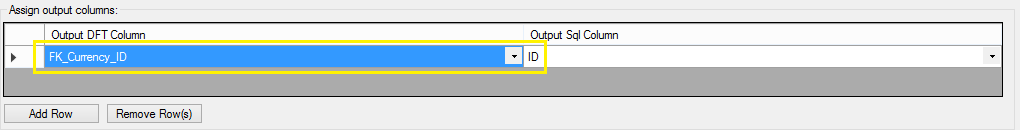
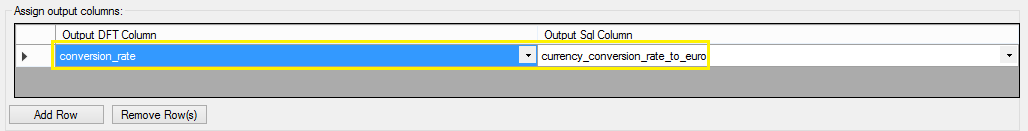
Example edited

Changed region(s): [[0.0, 0.1538, 1.0, 0.7692], [0.0, 0.8, 0.2127, 0.9538], [0.0, 0.0308, 0.1216, 0.1231]]

diff --git a/README.md b/README.md
@@ -1,13 +1,11 @@
 ## initions SSIS Component "Lookup 2"
 "Lookup 2" is a custom component for [SQL Server Integration Services](https://en.wikipedia.org/wiki/SQL_Server_Integration_Services). It can be added to the Data Flow of an SSIS-package to look up values in data ranges. 
 
-The standard lookup transformation in SSIS lets you join data from a related table (lookup-table) based on **equal** values in common columns (for each value in your input is an exact matching value in the lookup-table).  
+The standard lookup transformation in SSIS lets you join data from a related table (lookup-table) based on **equal** values in common columns. For each value in your input is an exact matching value in the lookup-table.  
 In some cases the values in the lookup-table are divided into consecutive ranges and only the beginning and ending values of each range is stored. To join this data you can not look for equal values but for the appropriate *data range*.    
 The "Lookup 2" SSIS-Component enables you to do this in an easy way. 
 
-For example: You want to know the currency conversion rate for Euro to US-Dollar on a specific date. The conversion rate changes over time, so it is valid between two dates (*valid-from* and *valid-to*). These dates are saved in a lookup-table.  
-Let's say the currency conversion rate for Euro to Dollar was 1:1.2 between 2015-02-01 and 2015-02-15 and you made a purchase in US-Dollar on 2015-02-10.  
-To get the rate for this date from the lookup-table you need to search for the currency (US-Dollar) and where the purchase-date is between *valid-from* and *valid-to*.
+---
 
 ### Requirements for development
 * Microsoft VisualStudio 2010 or greater
@@ -15,29 +13,57 @@ To get the rate for this date from the lookup-table you need to search for the c
 ### Requirements for usage
 * Microsoft SSIS 2008R2 / 2012 / 2014
 
+---
+
+###Example: 
+
+You want to know the currency conversion rate for US-Dollar to Euro on a specific date. The conversion rate changes over time, so it is valid between two dates (*valid-from* and *valid-to*). These dates are saved in a lookup-table.  
+Let's say the currency conversion rate for Dollar to Euro was 1:1.2 between 2015-02-01 and 2015-02-15 and you made a purchase in US-Dollar on 2015-02-10.  
+To get the rate for this date from the lookup-table you need to search for the currency (US-Dollar, country=1) and where the purchase-date is between *valid-from* and *valid-to*.
+
+*Input-table:*
+
+|purchase_date|country|value|
+|---|---|---|
+|2015-02-10|1|7.99|
+  
+
+*Lookup-table dbo.currency:*
+
+|currency_conversion_rate_to_euro|FK_Country_ID|VALID_FROM|VALID_TO|
+|---|---|---|---|
+|1.3|1|2015-01-19|2015-01-31|
+|1.2|1|2015-02-01|2015-02-15|
+|1.17|1|2015-02-16|2015-02-27|
+
+---
+
 ### How to use
 1. open SSIS Package
 2. create DFT and open it 
-3. ![SSIS Control Flow](/resources/Control_Flow_LU2.PNG "SSIS Control Flow with Data Flow")
+3. ![SSIS Control Flow](./resources/Control_Flow_LU2.PNG "SSIS Control Flow with Data Flow")
 4. insert a src-component that gets your data you want to look up (i.e. purchase data)
-5. create new column in your Data Flow to hold lookup2-return-value (i.e. FK_Currency_ID)
-6. ![New Column](/resources/New_Column.PNG "Create new column for lookup2-return-value")
+5. create new column in your Data Flow to hold lookup2-return-value (i.e. conversion_rate)
+6. ![New Column](./resources/New_Column.PNG "Create new column for lookup2-return-value")
 7. find Lookup2 component in SSIS Toolbox, add it to Data Flow and connect its input to output of previous component
-8. ![SSIS Toolbox](/resources/SSIS_Toolbox_LU2.PNG "SSIS Toolbox with Lookup2 component")
+8. ![SSIS Toolbox](./resources/SSIS_Toolbox_LU2.PNG "SSIS Toolbox with Lookup2 component")
 9. add a data-destination-component
-10. ![SSIS Data Flow](/resources/Control_Flow_LU2_complete.PNG "SSIS Data Flow")
+10. ![SSIS Data Flow](./resources/Control_Flow_LU2_complete.PNG "SSIS Data Flow")
 11. open and configure "Lookup2" component:
-    * ![Lookup2](/resources/LU2_01.PNG "Edit Lookup2 component")
+    * ![Lookup2](./resources/LU2_01.PNG "Edit Lookup2 component")
     * choose a connection manager to access lookup-table
-    * ![Connection Manager](/resources/LU2_02_Connection.png "Choose connection manager")
+    * ![Connection Manager](./resources/LU2_02_Connection.png "Choose connection manager")
     * choose lookup-table (i.e. dbo.currency)
     * from your input (DFT Value) select column whose value is to look up in a data range (i.e. purchase_date) 
     * from your lookup-table select lower and upper range (i.e. VALID_FROM, VALID_TO)
     * from your input select an optional matchcolumn (i.e. country) and matching column in lookup-table (i.e. FK_Country_ID)
-    * ![Lookup2 parameters](/resources/LU2_02_Parameters.PNG "Lookup2 parameters")
-    * select output column to hold the returning value (i.e. FK_Currency_ID)
-    * ![Lookup2 output column](/resources/LU2_02_Output.png "Lookup2 output column")
-9. done
+    * ![Lookup2 parameters](./resources/LU2_02_Parameters.PNG "Lookup2 parameters")
+    * select output column to hold the returning value (i.e. conversion_rate)
+    * ![Lookup2 output column](./resources/LU2_02_Output.png "Lookup2 output column")
+13. Note: Non matching values return **NULL** as output column
+14. done
+
+---
 
 ### Bugs
 If you find a bug, please contact us on GitHub
